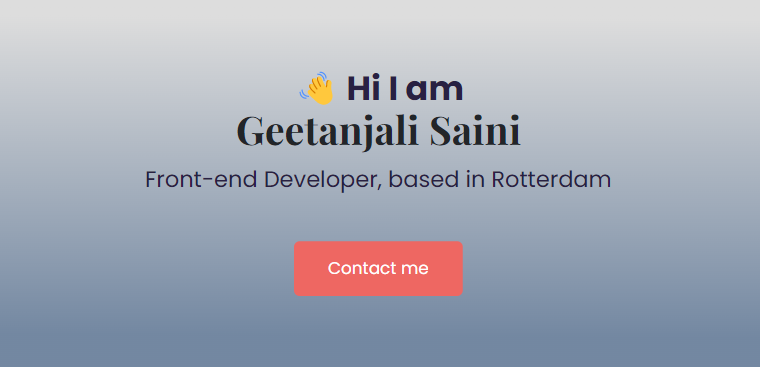
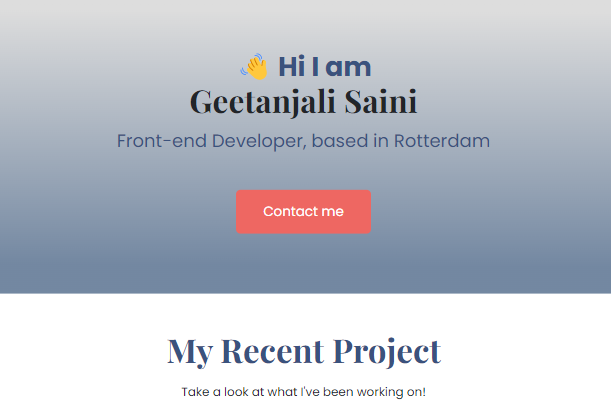
Integrated Work/Project html

diff --git a/work.html b/work.html
@@ -5,7 +5,7 @@
     <meta http-equiv="X-UA-Compatible" content="IE=edge" />
     <meta name="viewport" content="width=device-width, initial-scale=1.0" />
 
-    <title>About Me</title>
+    <title>My Projects</title>
 
     <link
       href="https://cdn.jsdelivr.net/npm/bootstrap@5.2.3/dist/css/bootstrap.min.css"
@@ -35,13 +35,12 @@
     ></script>
   </head>
   <body>
-    <div class="hero mb-5">
-      <h2>My Work</h2>
-      <h3>Take a look at what I've been working on!</h3>
-    </div>
-
-    <div class="container">
-      <div class="row mb-5">
+    <div class="container m-5">
+      <div class="page-title md-mb-5">
+        <h2 class="text-center mb-3">My Projects</h2>
+        <h1>Take a look at what I've been working on!</h1>
+      </div>
+      <div class="row mt-5 mb-5">
         <div class="col d-none d-lg-block">
           <img
             src="images/krav-maga.png"
@@ -128,22 +127,60 @@
       <div class="row mb-5">
         <div class="col d-none d-lg-block">
           <img
-            src="images/dictionary.png"
-            alt="dictionary Project"
+            src="images/portfolioApp.png"
+            alt="Portfolio Project"
             class="project-images img-fluid rounded"
           />
         </div>
         <div class="col">
           <div class="project-description">
+            <h2 class="mb-5">Portfolio Project</h2>
+            <p class="mb-5 text-muted">
+              Build a muilt-page portfolio website with the help of HTML5, CSS,
+              and Bootstrap.
+            </p>
+            <div class="row">
+              <div class="col">
+                <a
+                  href="https://frabjous-chaja-7de45b.netlify.app"
+                  class="btn btn-project"
+                  target="_blank"
+                >
+                  View App
+                </a>
+              </div>
+              <div class="col">
+                <a
+                  href="https://github.com/GSaini03/Portfolio-project"
+                  class="btn btn-project"
+                  target="_blank"
+                >
+                  GitHub
+                </a>
+              </div>
+            </div>
+          </div>
+        </div>
+      </div>
+
+      <div class="row mb-5">
+        <div class="col">
+          <div class="project-description">
             <h2 class="mb-5">Dictionary App</h2>
             <p class="mb-5 text-muted">
-              Far far away, behind the word mountains, far from the countries
-              Vokalia and Consonantia, there live the blind texts. Separated
-              they live in Bookmarksgrove right at the coast of the Semantics, a
-              large language ocean. A small river named Duden flows by
+              <strong>COMING SOON!!</strong>
+              Will be build with HTML, CSS with React.
             </p>
             <a href="" class="btn btn-project"> Learn More </a>
           </div>
+        </div>
+
+        <div class="col d-none d-lg-block">
+          <img
+            src="images/dictionary.png"
+            alt="dictionary Project"
+            class="project-images img-fluid rounded"
+          />
         </div>
       </div>
     </div>

diff --git a/styles/portfolio.css b/styles/portfolio.css
@@ -9,7 +9,7 @@ font-family: 'Fauna One', serif;
   --project-color: #32537d;
   --heading-font-family: Playfair Display, serif;
   --default-font-family: Poppins, sans-serif;
-  --introText-font-family: Fauna One, serif;
+
   --hero-bg-color: linear-gradient(
     180.3deg,
     rgb(221, 221, 221) 5.5%,
@@ -68,7 +68,7 @@ p {
 .hero p {
   color: var(--project-color);
   font-weight: bold;
-  font-size: 36px;
+  font-size: 35px;
   margin: 0;
 }
 
@@ -128,7 +128,7 @@ p {
 }
 
 .project-description h2 {
-  font-size: 64px;
+  font-size: 60px;
 }
 
 .project-images {
@@ -139,18 +139,29 @@ p {
   padding: 160px 40px;
 }
 
-.content-container h1 {
+.page-title {
+  padding: 90px 40px;
+}
+
+.page-title h1 {
+  font-size: 65px;
+  line-height: 75px;
+  text-align: center;
+}
+
+.page-title h2 {
+  font-size: 40px;
+  line-height: 60px;
+}
+
+.content h1 {
   font-size: 64px;
   line-height: 80px;
 }
 
-.content-container h2 {
+.content h2 {
   font-size: 20px;
   font-family: var(--default-font-family);
-}
-
-.content-container p {
-  font-family: var(--introText-font-family);
 }
 
 .content {
@@ -172,12 +183,39 @@ p {
   }
 
   .project-description {
-    padding: 0;
+    padding: 45px 30px;
     text-align: center;
   }
 
+  .project-description h2 {
+    font-size: 40px;
+  }
+
   .content-container {
+    padding: 60px 20px;
+  }
+
+  .content {
     text-align: center;
     padding: 0;
+  }
+
+  .content h1 {
+    font-size: 42px;
+    line-height: 55px;
+  }
+
+  .page-title {
+    text-align: center;
+    padding: 0;
+  }
+
+  .page-title h1 {
+    font-size: 42px;
+    line-height: 50px;
+  }
+
+  .page-title h2 {
+    font-size: 30px;
   }
 }

diff --git a/about.html b/about.html
@@ -72,7 +72,7 @@
           <img
             src="images/mypic.jpg"
             alt="portfolio-pic"
-            class="img-fluid rounded mt-5 pt-4"
+            class="img-fluid rounded mt-4 pt-5"
           />
         </div>
       </div>
